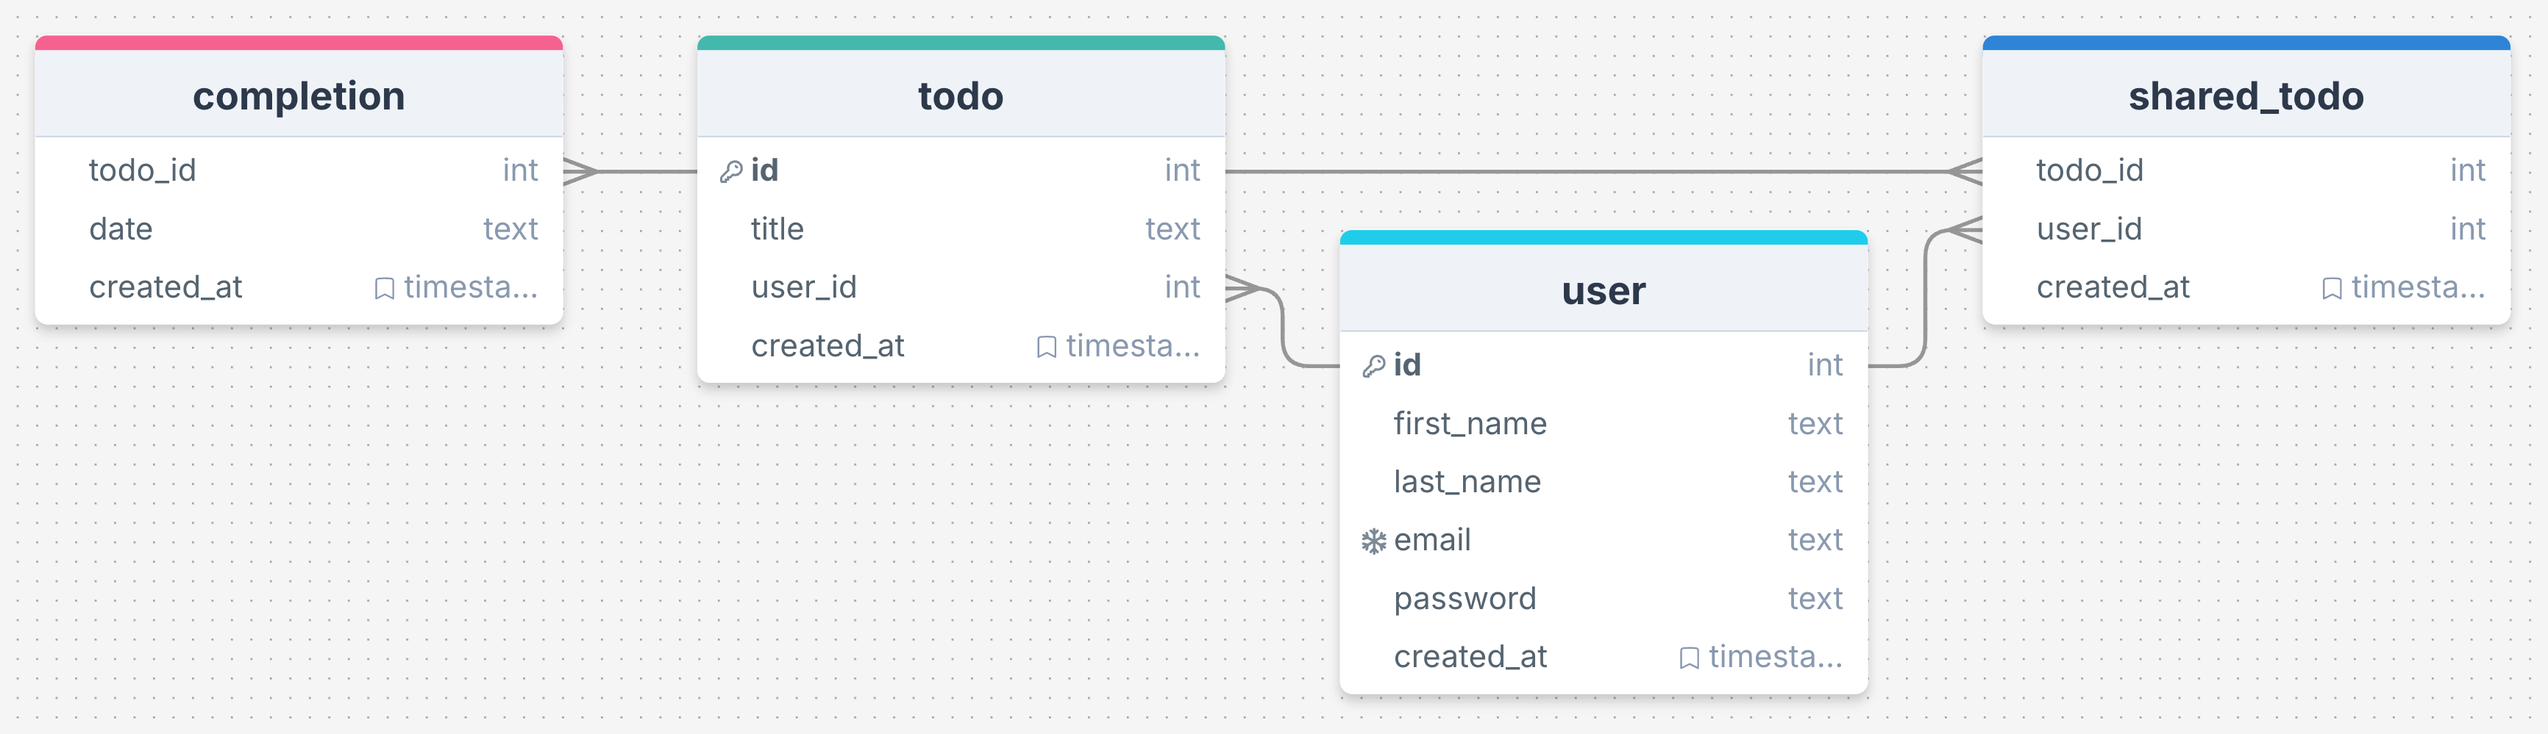
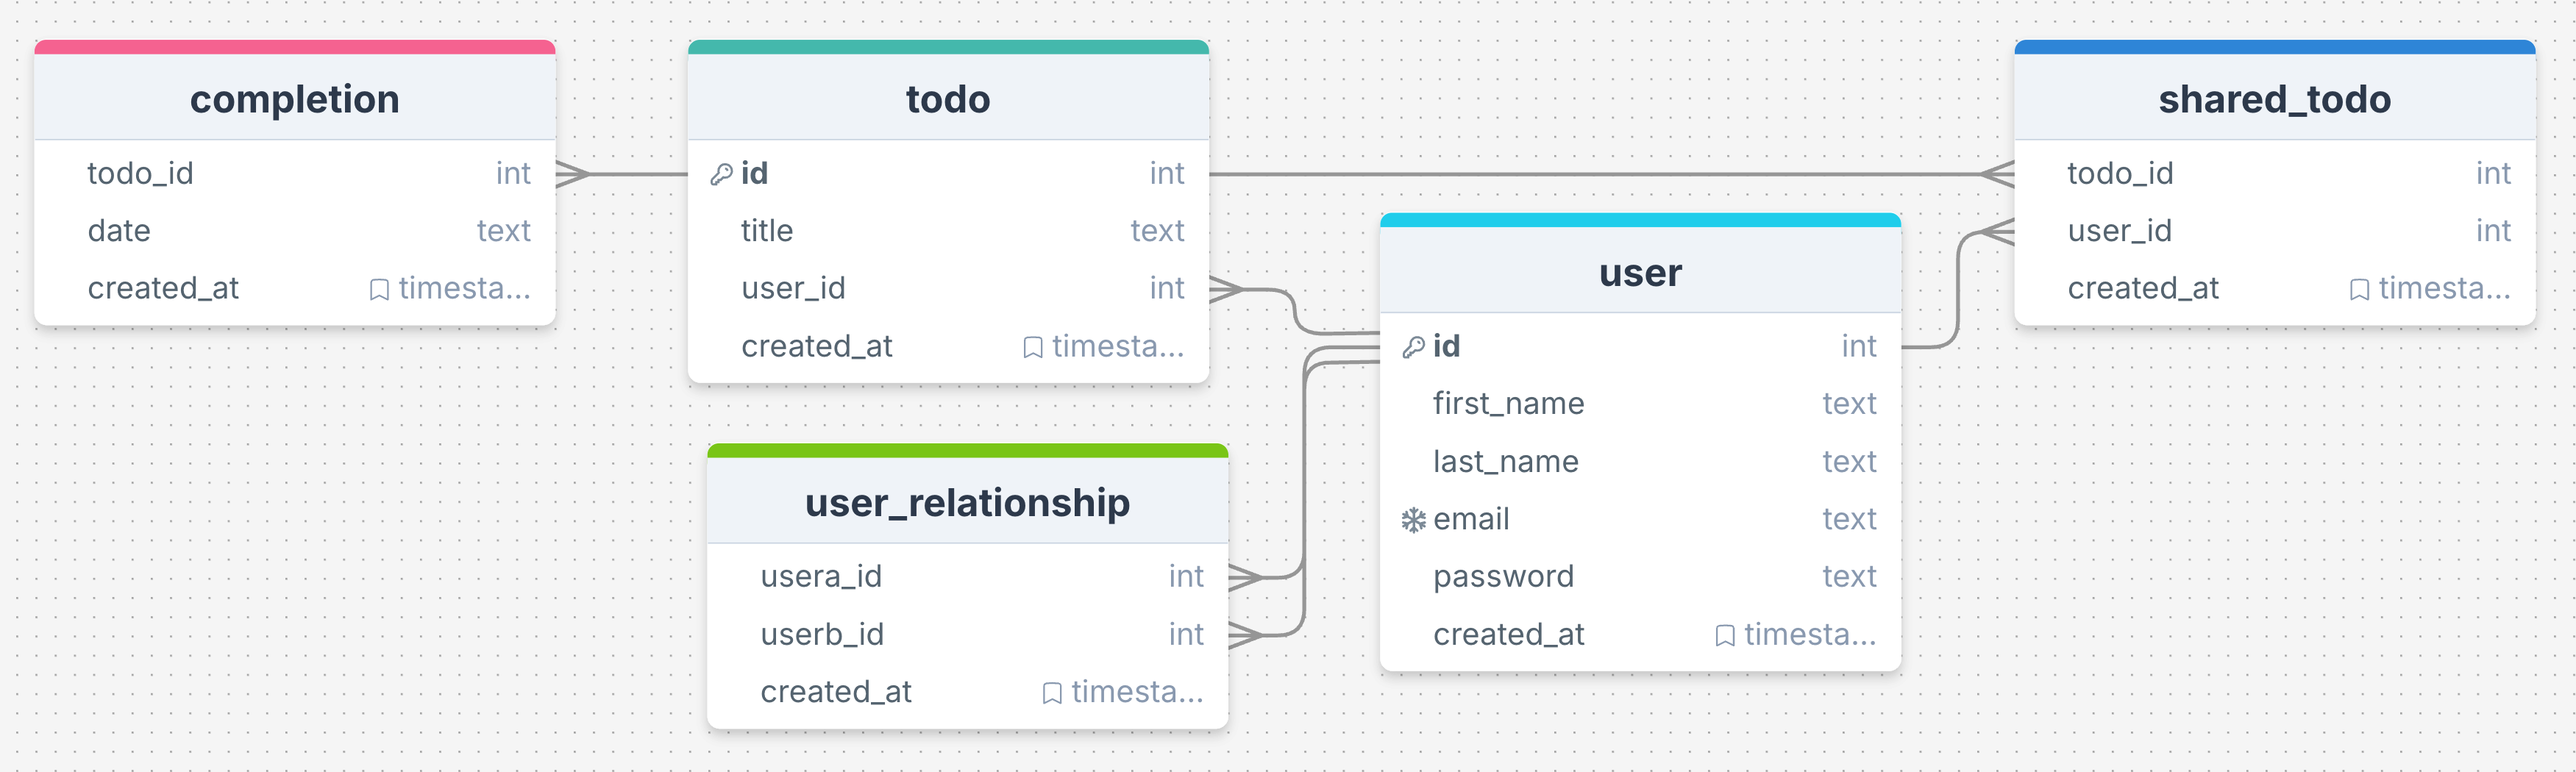
docs: update sql db diagram image and embed

diff --git a/README.md b/README.md
@@ -124,7 +124,7 @@ cp .env.example .env && \
 ## Database Diagram
 
 <div>
-  <a href="https://drawsql.app/teams/my-team-2119/diagrams/tick-it-off/embed">
+  <a href="https://drawsql.app/teams/my-team-2119/diagrams/tickitoff2/embed">
   <img
     title="tick-it-off postgreSQL diagram."
     src="./assets/tick-it-off-sql-diagram.png">
